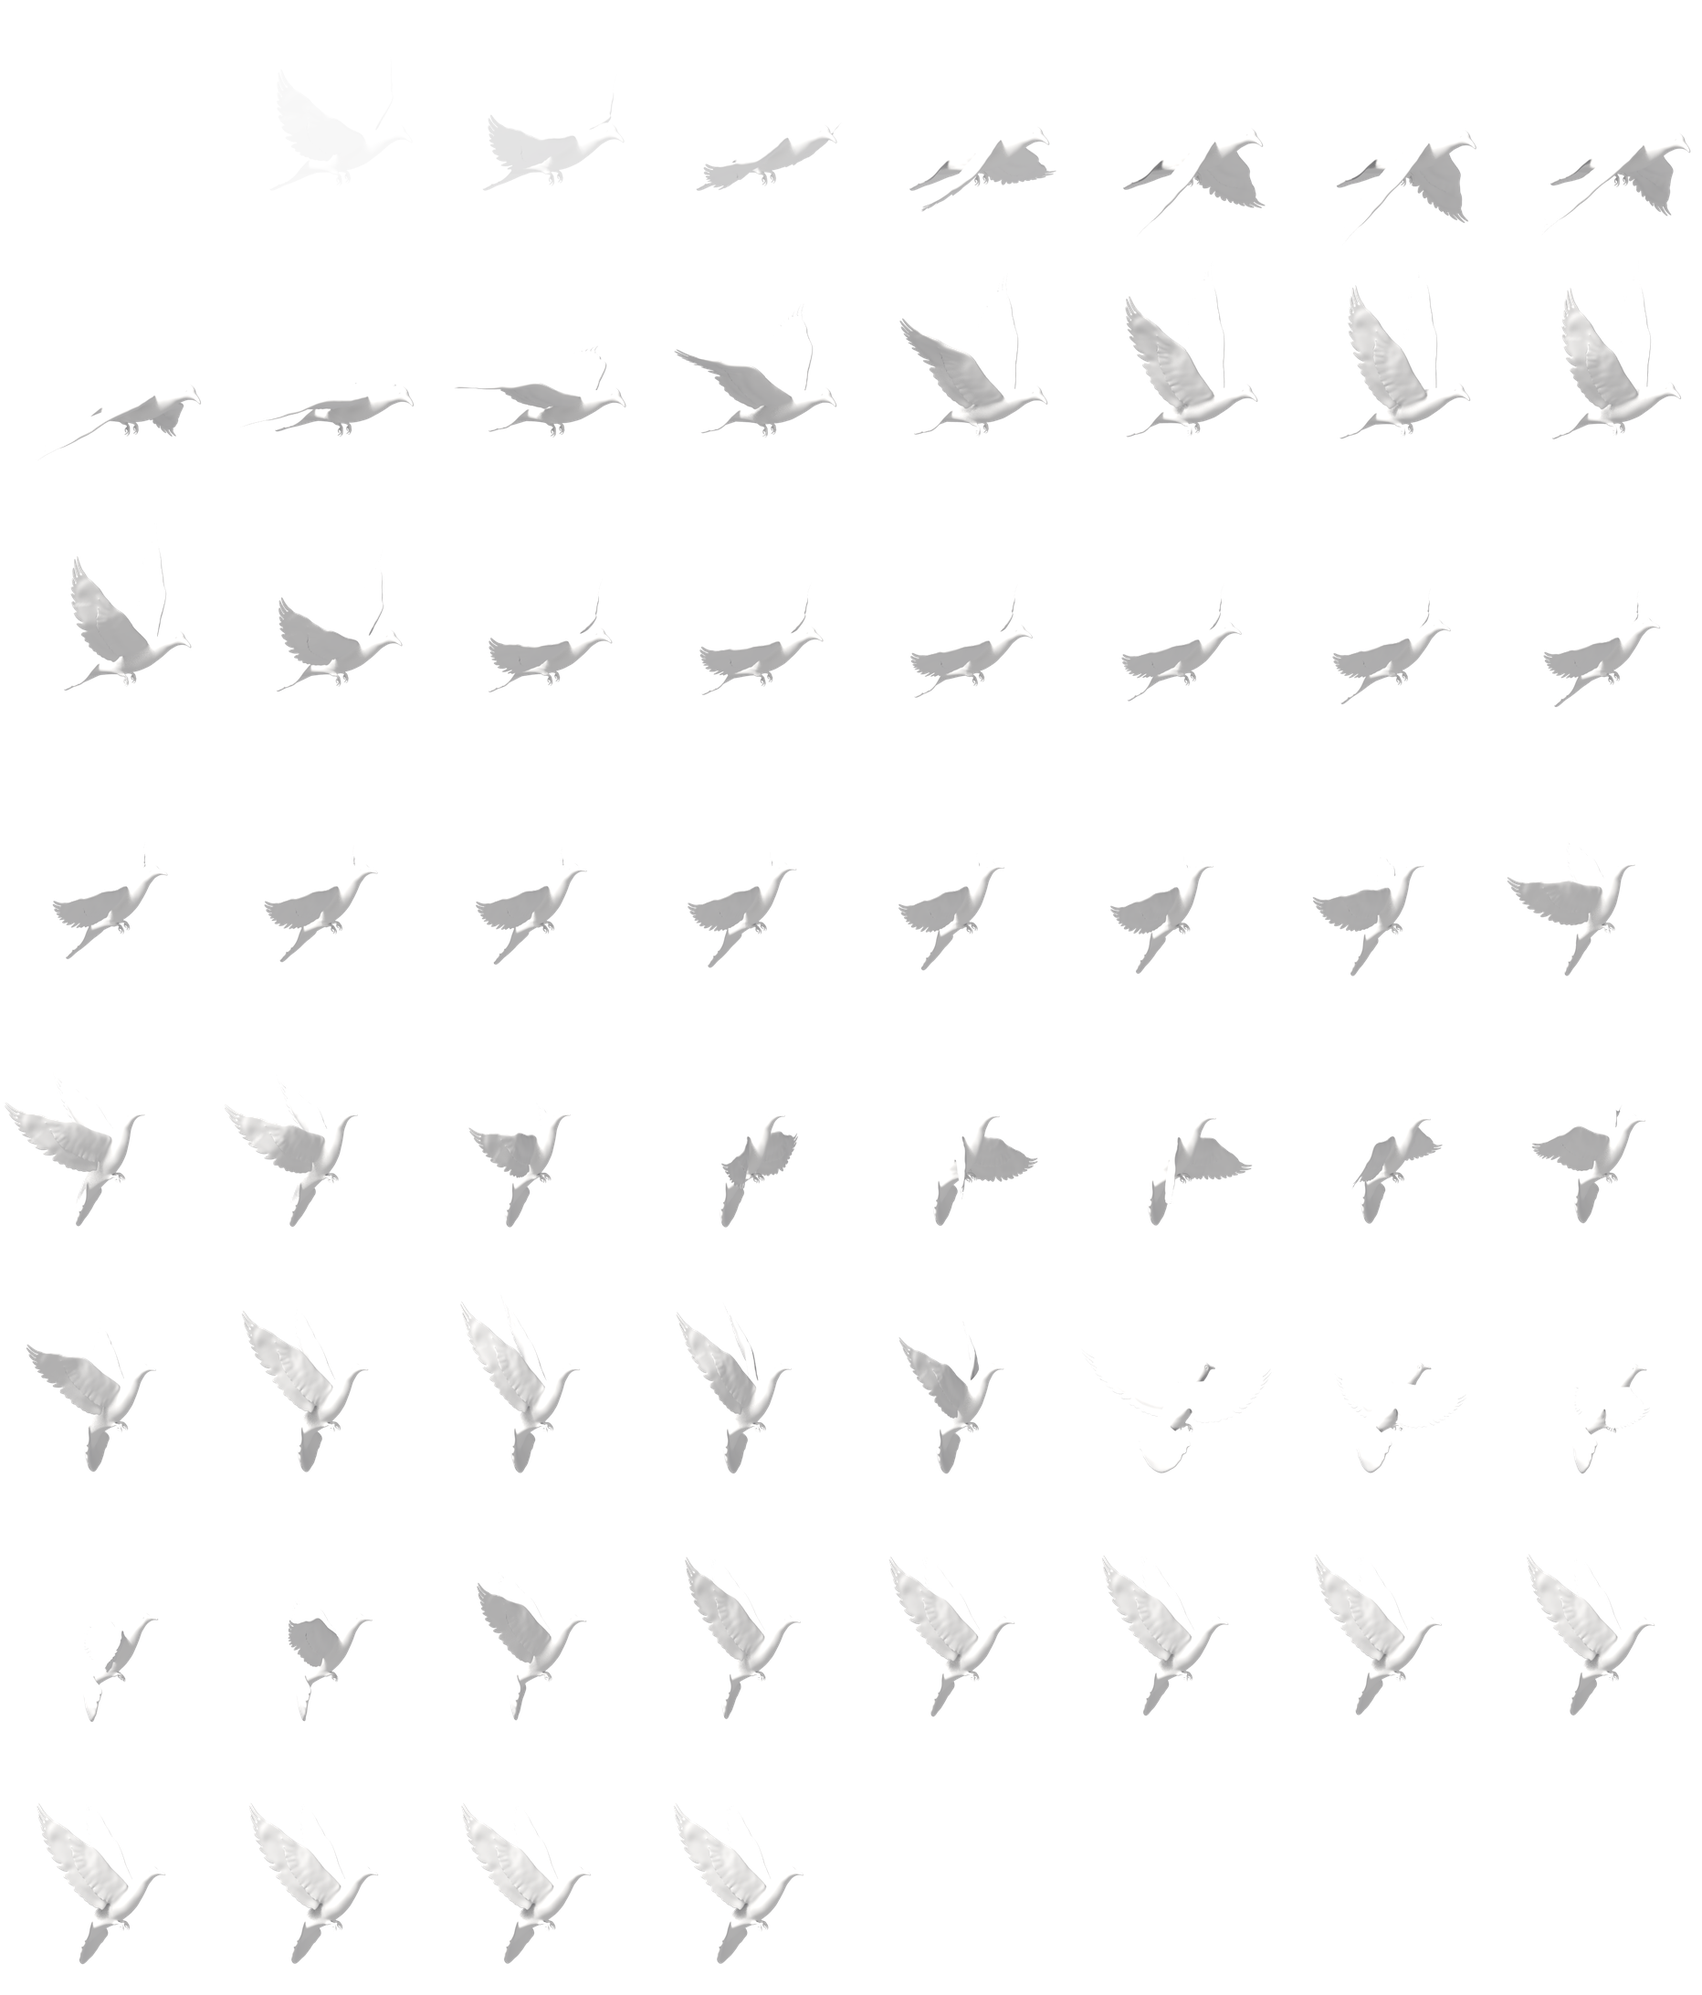
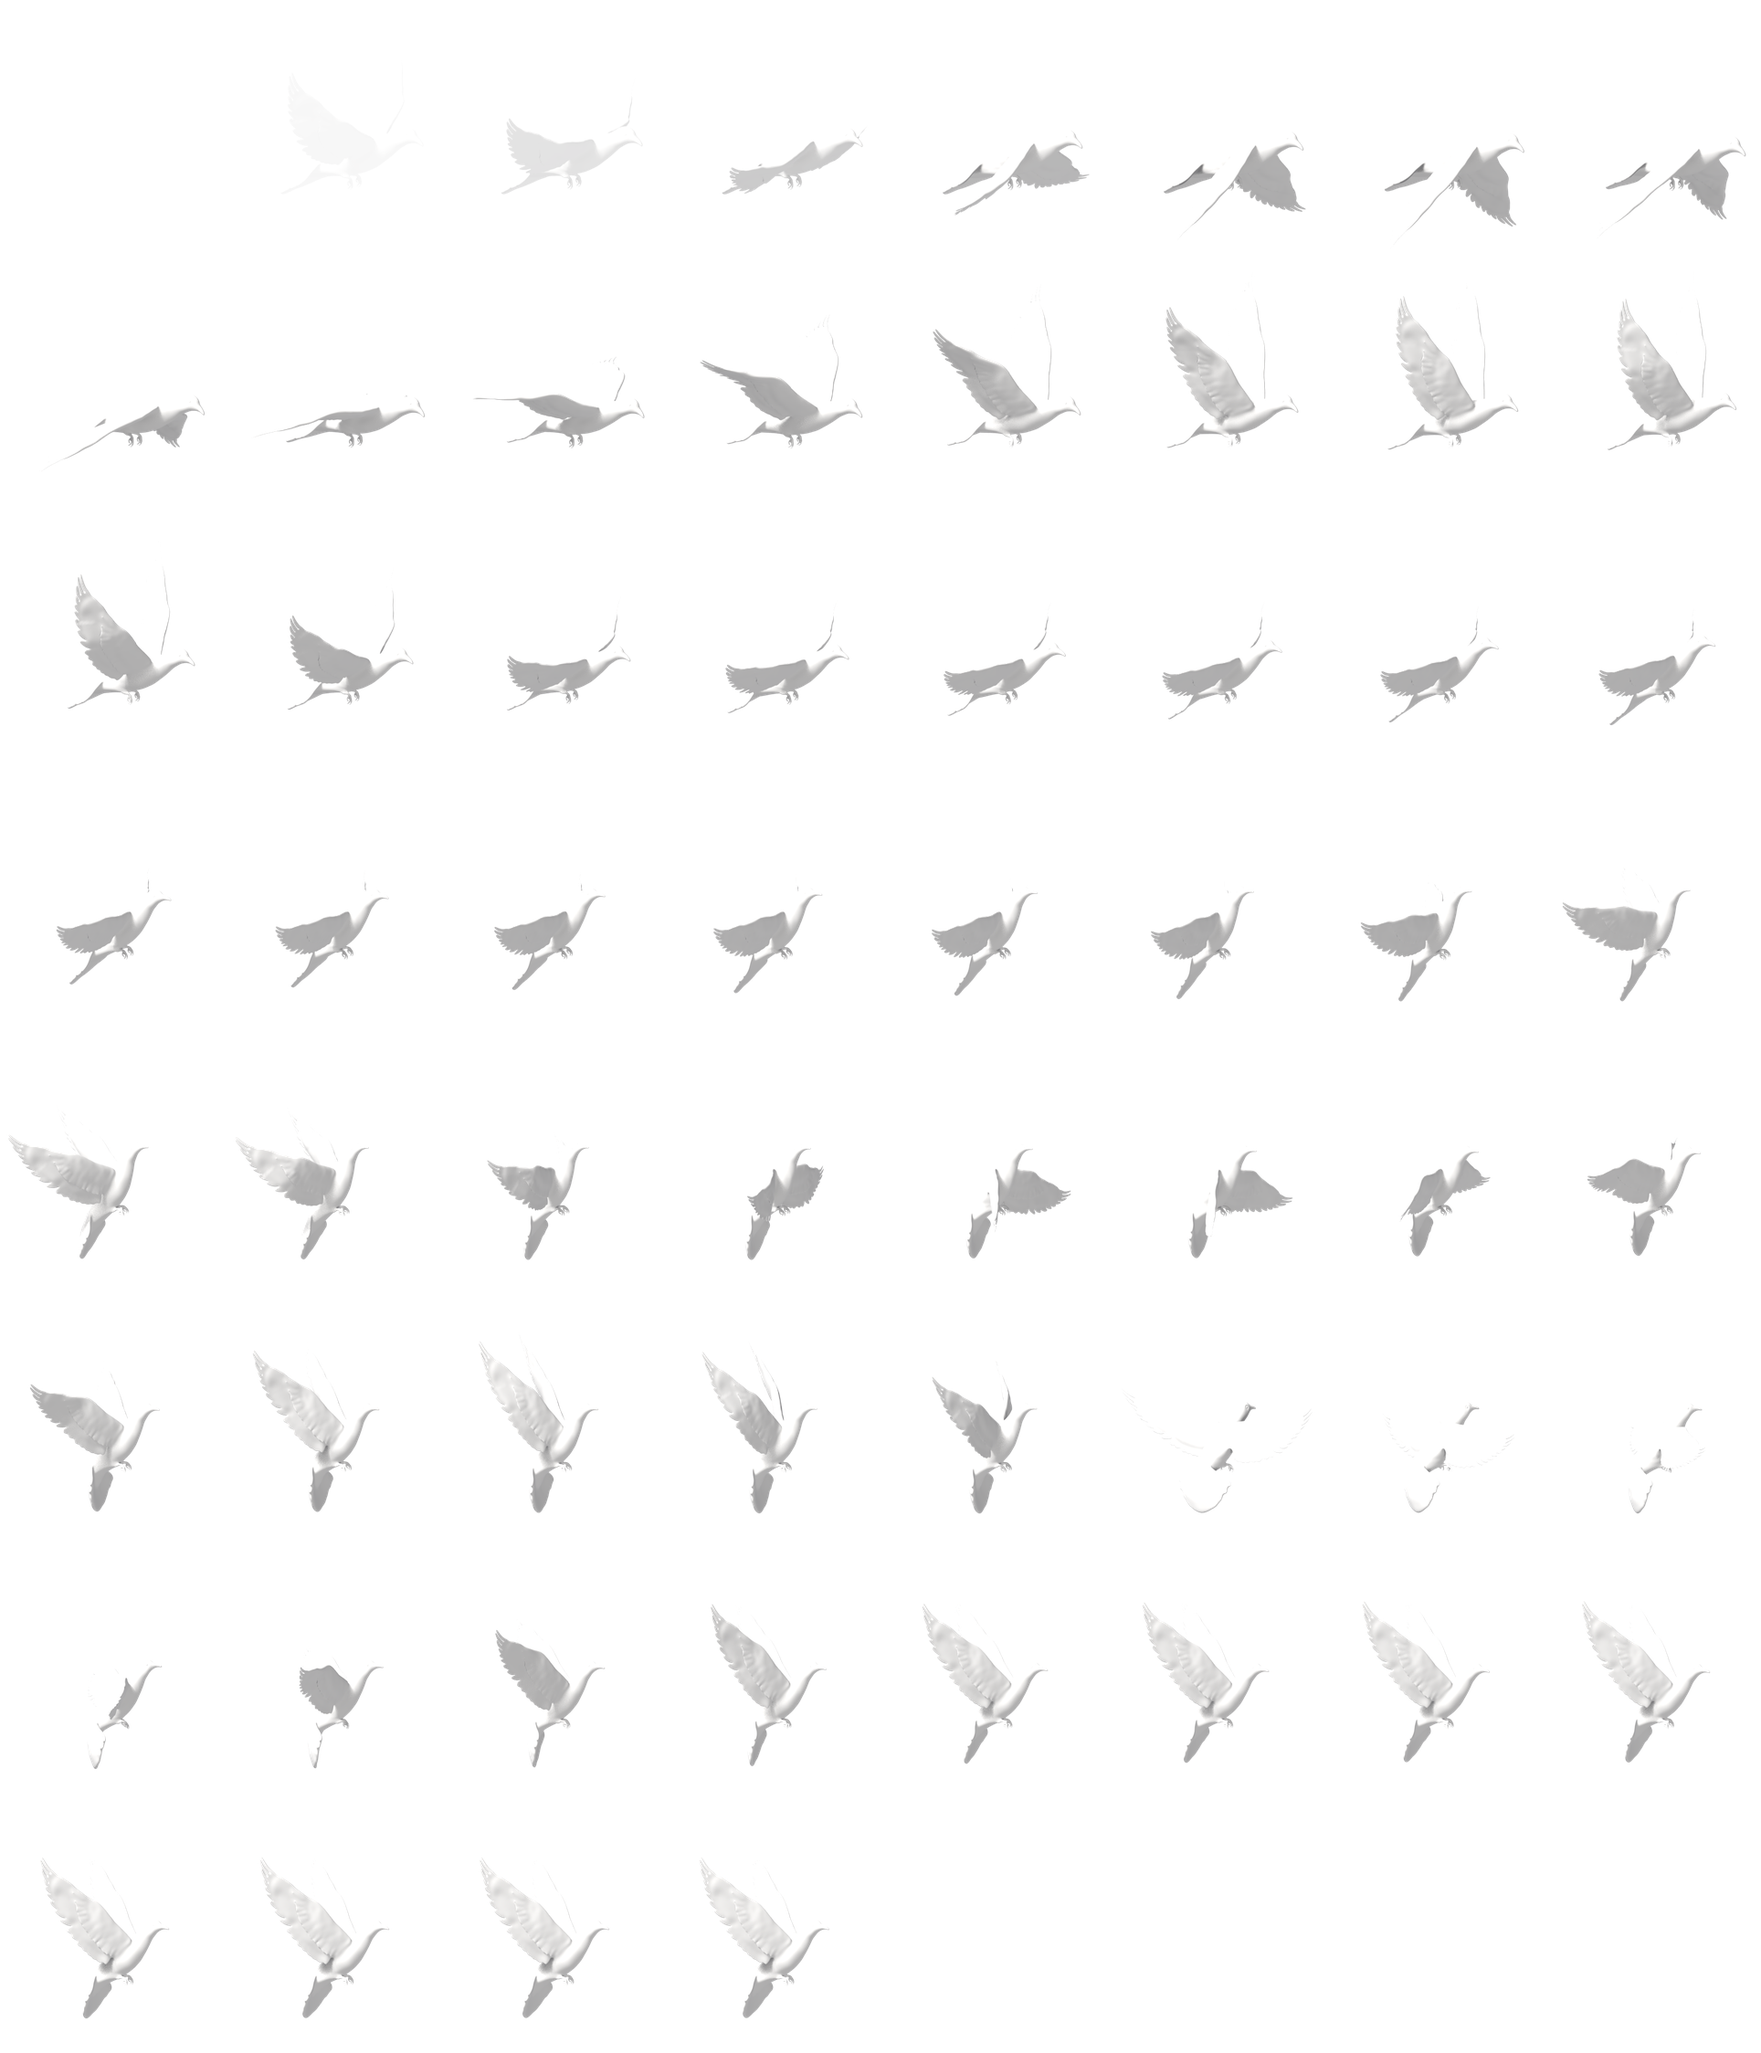
Dove mark: gold edge on cream, and in every tab header
White on cream washed out, so light mode rings the dove with a faint brand
gold edge (its silhouette tinted at 8 small offsets). The tab headers'
Wordmark is now the same Cinzel mark with the perched dove; Home's two header
sides widen to 72 so the title stays centred.

Claude-Session: https://claude.ai/code/session_01THupBQkvV2A2AH2777kka5

diff --git a/apps/mobile/components/DoveReveal.tsx b/apps/mobile/components/DoveReveal.tsx
@@ -12,15 +12,45 @@
 
 import React, { useEffect } from 'react';
 import { Image, View } from 'react-native';
-import Animated, { Easing, useAnimatedStyle, useSharedValue, withTiming } from 'react-native-reanimated';
+import Animated, { Easing, useAnimatedStyle, useReducedMotion, useSharedValue, withTiming } from 'react-native-reanimated';
 import { useTheme } from '../utils/ThemeContext';
-import { useReduceMotion } from './redesign/Primitives';
 import { CELL, PERCH, WORD, XY } from './doveFrames';
 
 const SHEET = require('../assets/dove/dove-sheet.png');
 const PERCHED = require('../assets/dove/dove-perch.png');
 const WORDMARK = require('../assets/dove/wordmark-cinzel.png');
 const LAST = XY.length - 1;
+
+// On cream the white dove washes out, so light mode rings it with a faint
+// brand-gold edge: the dove's own silhouette tinted and drawn at 8 small
+// offsets behind it. Offsets are in dp, so the edge is the same at any size.
+const EDGE = [[1, 0], [-1, 0], [0, 1], [0, -1], [0.7, 0.7], [-0.7, 0.7], [0.7, -0.7], [-0.7, -0.7]] as const;
+const EDGE_DP = 0.9;
+const EDGE_OPACITY = 0.6;
+
+/** The dove's edge colour for the current theme, or null for none. */
+function useEdge(): string | null {
+  const { mode, colors } = useTheme();
+  return mode === 'light' ? colors.gold : null;
+}
+
+function Perched({ k }: { k: number }) {
+  const edge = useEdge();
+  const box = { position: 'absolute' as const, left: PERCH.x * k, top: PERCH.y * k, width: PERCH.w * k, height: PERCH.h * k };
+  return (
+    <>
+      {edge &&
+        EDGE.map(([dx, dy], i) => (
+          <Image
+            key={i}
+            source={PERCHED}
+            style={[box, { tintColor: edge, opacity: EDGE_OPACITY, transform: [{ translateX: dx * EDGE_DP }, { translateY: dy * EDGE_DP }] }]}
+          />
+        ))}
+      <Image source={PERCHED} style={box} />
+    </>
+  );
+}
 
 /** The wordmark with the dove on the R. `width` is the wordmark's width in dp;
  *  the dove sits above that box (0.36 of the width), outside its layout. */
@@ -30,12 +60,17 @@ export function DoveMark({ width, perched = true }: { width: number; perched?: b
   return (
     <View style={{ width, height: WORD.h * k }} accessible accessibilityRole="image" accessibilityLabel="EZER">
       <Image source={WORDMARK} style={{ width, height: WORD.h * k, tintColor: colors.ink }} />
-      {perched && (
-        <Image
-          source={PERCHED}
-          style={{ position: 'absolute', left: PERCH.x * k, top: PERCH.y * k, width: PERCH.w * k, height: PERCH.h * k }}
-        />
-      )}
+      {perched && <Perched k={k} />}
+    </View>
+  );
+}
+
+/** The tab headers' mark: DoveMark plus room for the dove above and to the right of the word. */
+export function HeaderDoveMark({ width = 56 }: { width?: number }) {
+  const k = width / WORD.w;
+  return (
+    <View style={{ marginTop: Math.ceil(-PERCH.y * k), marginRight: Math.ceil((PERCH.x + PERCH.w - WORD.w) * k) }}>
+      <DoveMark width={width} />
     </View>
   );
 }
@@ -46,7 +81,8 @@ export function DoveMark({ width, perched = true }: { width: number; perched?: b
  * The wordmark's own opacity is the caller's (LockGate's existing fade).
  */
 export function DoveFlight({ width, duration }: { width: number; duration: number }) {
-  const reduced = useReduceMotion();
+  const reduced = useReducedMotion();
+  const edge = useEdge();
   const k = width / WORD.w;
   const f = useSharedValue(0);
   useEffect(() => {
@@ -65,22 +101,22 @@ export function DoveFlight({ width, duration }: { width: number; duration: numbe
 
   // Reduced motion: no travel, the dove is simply there.
   if (reduced) {
-    return (
-      <Image
-        source={PERCHED}
-        style={{ position: 'absolute', left: PERCH.x * k, top: PERCH.y * k, width: PERCH.w * k, height: PERCH.h * k }}
-      />
-    );
+    return <Perched k={k} />;
   }
+  const size = { width: CELL.w * CELL.cols * k, height: CELL.h * CELL.rows * k };
+  // Cells carry a 2px transparent margin, so the edge copies stay inside them.
   return (
     <Animated.View
       pointerEvents="none"
       style={[{ position: 'absolute', left: 0, top: 0, width: CELL.w * k, height: CELL.h * k, overflow: 'hidden' }, box]}
     >
-      <Animated.Image
-        source={SHEET}
-        style={[{ width: CELL.w * CELL.cols * k, height: CELL.h * CELL.rows * k }, sheet]}
-      />
+      {edge &&
+        EDGE.map(([dx, dy], i) => (
+          <Animated.View key={i} style={{ position: 'absolute', left: dx * EDGE_DP, top: dy * EDGE_DP, opacity: EDGE_OPACITY }}>
+            <Animated.Image source={SHEET} style={[size, { tintColor: edge }, sheet]} />
+          </Animated.View>
+        ))}
+      <Animated.Image source={SHEET} style={[size, sheet]} />
     </Animated.View>
   );
 }

diff --git a/apps/mobile/components/doveFrames.ts b/apps/mobile/components/doveFrames.ts
@@ -2,6 +2,6 @@
 // Units are px of the 1080-wide render the owner approved; the wordmark there is
 // 558 x 133. XY is each sprite cell's top-left relative to the wordmark's top-left.
 export const WORD = { w: 558, h: 133 };
-export const CELL = { w: 233, h: 273, cols: 8, rows: 8 };
+export const CELL = { w: 241, h: 281, cols: 8, rows: 8 };
 export const PERCH = { x: 538.0, y: -198.0, w: 145.5, h: 193.0 };
-export const XY: readonly (readonly [number, number])[] = [[-302.4,-6.8],[-261.6,-10.3],[-222.0,-14.1],[-183.4,-17.8],[-145.8,-20.8],[-109.2,-23.1],[-73.5,-24.2],[-38.9,-23.7],[-5.3,-21.9],[27.2,-19.6],[58.7,-17.4],[89.3,-15.8],[118.9,-15.3],[147.6,-16.4],[175.2,-18.1],[201.9,-20.1],[227.6,-22.5],[252.3,-25.6],[275.9,-29.4],[298.4,-34.1],[319.8,-40.0],[339.8,-47.0],[358.6,-54.9],[376.1,-63.4],[392.4,-72.4],[407.6,-81.7],[421.6,-91.2],[434.4,-100.9],[446.1,-110.8],[456.5,-120.9],[465.8,-131.0],[473.7,-141.2],[480.4,-151.4],[486.1,-161.2],[491.0,-170.7],[495.4,-179.7],[499.1,-188.1],[502.4,-196.0],[505.2,-203.4],[507.5,-210.2],[509.5,-216.5],[511.0,-222.2],[512.1,-227.5],[512.8,-232.2],[512.9,-236.4],[512.1,-239.9],[510.1,-242.2],[507.7,-243.2],[505.6,-243.7],[503.9,-244.0],[502.7,-244.4],[501.8,-244.6],[501.3,-244.9],[501.1,-245.0],[501.0,-245.0],[501.0,-245.0],[501.0,-245.0],[501.0,-245.0],[501.0,-245.0],[501.0,-245.0]];
+export const XY: readonly (readonly [number, number])[] = [[-306.4,-10.8],[-265.6,-14.3],[-226.0,-18.1],[-187.4,-21.8],[-149.8,-24.8],[-113.2,-27.1],[-77.5,-28.2],[-42.9,-27.7],[-9.3,-25.9],[23.2,-23.6],[54.7,-21.4],[85.3,-19.8],[114.9,-19.3],[143.6,-20.4],[171.2,-22.1],[197.9,-24.1],[223.6,-26.5],[248.3,-29.6],[271.9,-33.4],[294.4,-38.1],[315.8,-44.0],[335.8,-51.0],[354.6,-58.9],[372.1,-67.4],[388.4,-76.4],[403.6,-85.7],[417.6,-95.2],[430.4,-104.9],[442.1,-114.8],[452.5,-124.9],[461.8,-135.0],[469.7,-145.2],[476.4,-155.4],[482.1,-165.2],[487.0,-174.7],[491.4,-183.7],[495.1,-192.1],[498.4,-200.0],[501.2,-207.4],[503.5,-214.2],[505.5,-220.5],[507.0,-226.2],[508.1,-231.5],[508.8,-236.2],[508.9,-240.4],[508.1,-243.9],[506.1,-246.2],[503.7,-247.2],[501.6,-247.7],[499.9,-248.0],[498.7,-248.4],[497.8,-248.6],[497.3,-248.9],[497.1,-249.0],[497.0,-249.0],[497.0,-249.0],[497.0,-249.0],[497.0,-249.0],[497.0,-249.0],[497.0,-249.0]];

diff --git a/apps/mobile/app/(tabs)/home.tsx b/apps/mobile/app/(tabs)/home.tsx
@@ -370,11 +370,13 @@ export default function HomeScreen() {
         <ScreenBody>
           {/* --- header ------------------------------------------------------ */}
           <View style={styles.header}>
-            <PressScale onPress={() => router.push('/settings')} scaleTo={0.9}>
-              <View style={[styles.gear, { backgroundColor: colors.card, borderColor: colors.line }]}>
-                <Ionicons name="settings-outline" size={18} color={colors.ink} />
-              </View>
-            </PressScale>
+            <View style={[styles.headerSide, { alignItems: 'flex-start' }]}>
+              <PressScale onPress={() => router.push('/settings')} scaleTo={0.9}>
+                <View style={[styles.gear, { backgroundColor: colors.card, borderColor: colors.line }]}>
+                  <Ionicons name="settings-outline" size={18} color={colors.ink} />
+                </View>
+              </PressScale>
+            </View>
 
             {/* The centre block must be allowed to shrink, and both side slots
                 must reserve equal width — otherwise the 24px title and the
@@ -394,7 +396,7 @@ export default function HomeScreen() {
             </View>
 
             <View style={styles.headerSide}>
-              <Wordmark style={{ textAlign: 'right' }} />
+              <Wordmark />
             </View>
           </View>
 
@@ -723,9 +725,9 @@ const styles = StyleSheet.create({
     minWidth: 0,
     paddingHorizontal: 8,
   },
-  // Mirrors the 42px gear button so the centre block is genuinely centred.
+  // Wide enough for the dove mark; both sides share it, so the centre stays centred.
   headerSide: {
-    width: 52,
+    width: 72,
     alignItems: 'flex-end',
   },
   gear: {

diff --git a/apps/mobile/components/redesign/Primitives.tsx b/apps/mobile/components/redesign/Primitives.tsx
@@ -20,6 +20,7 @@ import {
   type StyleProp,
 } from 'react-native';
 import { useIsFocused } from '@react-navigation/native';
+import { HeaderDoveMark } from '../DoveReveal';
 import { useTheme } from '../../utils/ThemeContext';
 import Animated, {
   Easing,
@@ -105,9 +106,9 @@ export function Body({ children, style, color, ...rest }: TextProps) {
 }
 
 /** EZER wordmark — 15px/700, 2.5 tracking, gold. */
-export function Wordmark({ style }: { style?: StyleProp<TextStyle> }) {
-  const { colors } = useTheme();
-  return <Text style={[typeScale.wordmark, { color: colors.gold }, style]}>EZER</Text>;
+/** The tab headers' EZER: the lock screen's Cinzel mark with the perched dove. */
+export function Wordmark() {
+  return <HeaderDoveMark />;
 }
 
 // -----------------------------------------------------------------------------

diff --git a/CLAUDE.md b/CLAUDE.md
@@ -637,8 +637,11 @@ style problem.
   existing 900 ms intro fade (`FADE_MS`, never longer) and stays perched on the
   R as the real dove, not an SVG. The keypad header uses the same `DoveMark`.
   The PNGs and `doveFrames.ts` are generated by `E:\ezer-dove\work\export_app.py`
-  from the Blender renders; rerun it rather than hand-editing coordinates. The
-  tab headers still use the text `Wordmark`; that was not part of the request.
+  from the Blender renders; rerun it rather than hand-editing coordinates.
+  `Wordmark` (Primitives, every tab header) is now the small `DoveMark` too.
+  On cream (light mode only) the white dove gets a faint `colors.gold` edge,
+  its own silhouette tinted and drawn at 8 offsets behind it, asked for because
+  white on cream washed out. Don't drop it as "extra draws"; dark themes skip it.
 
 ## Alerts are in-app, never the OS dialog
 
